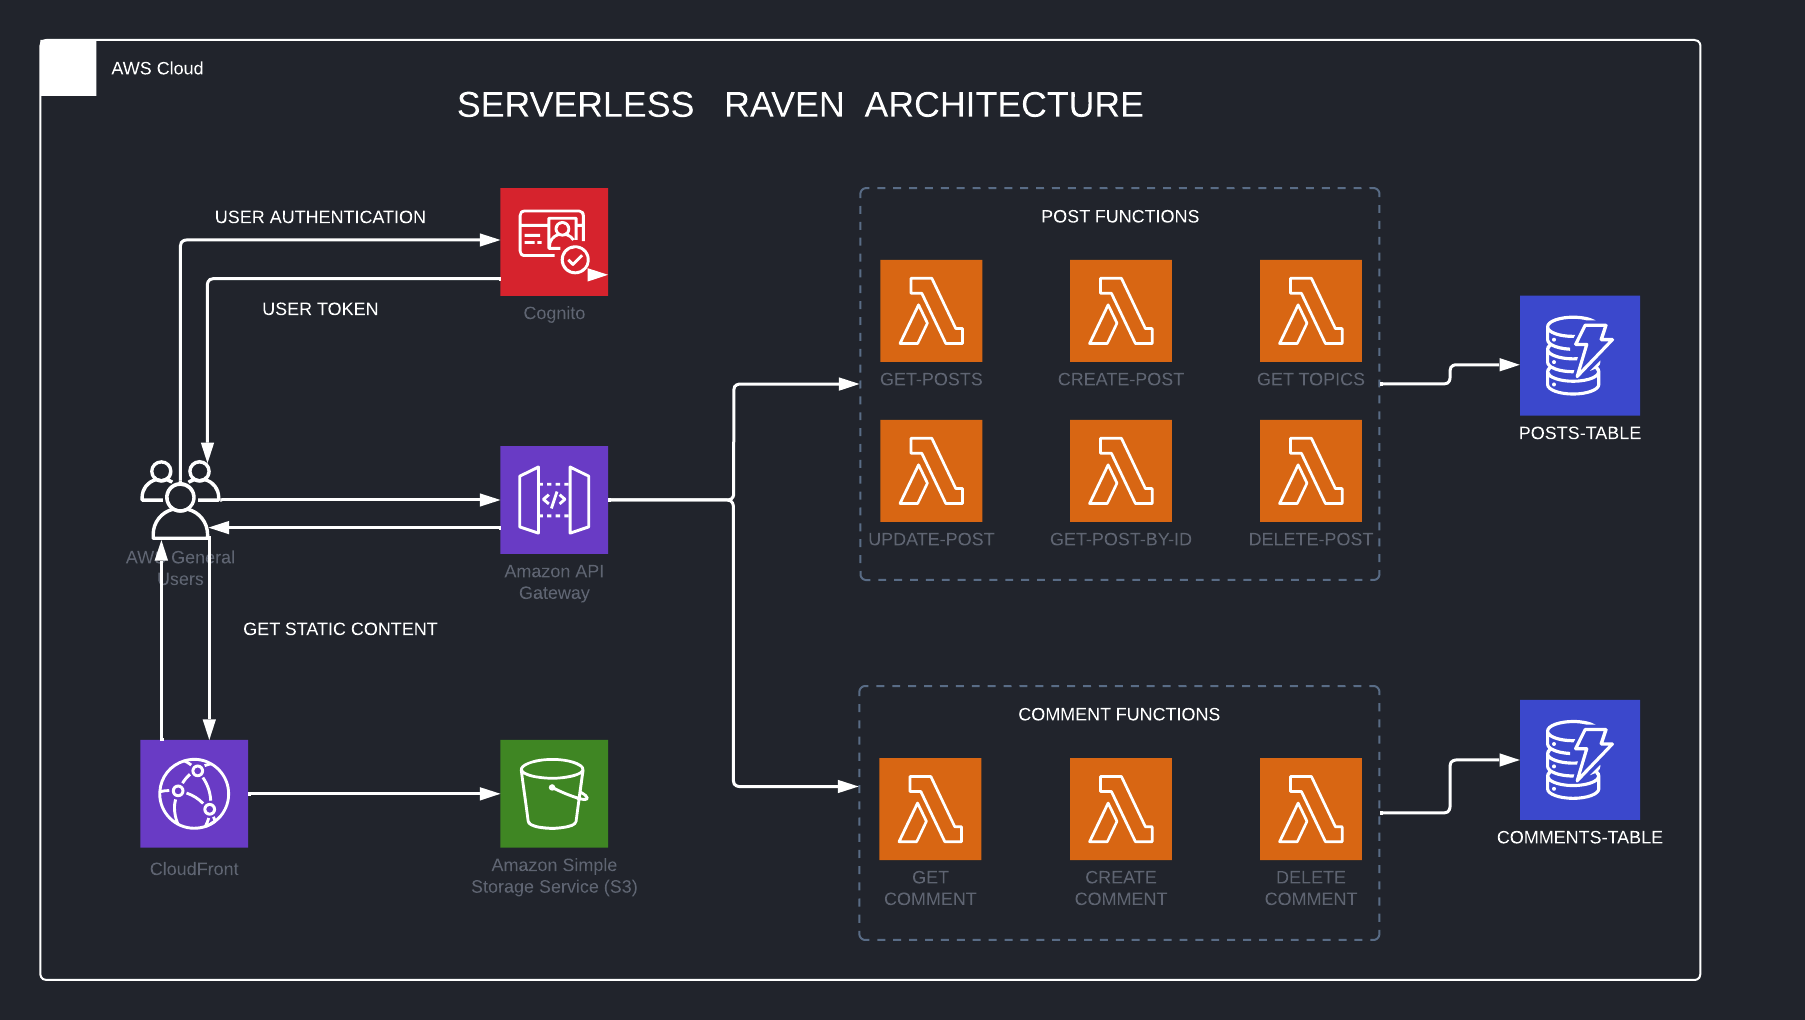
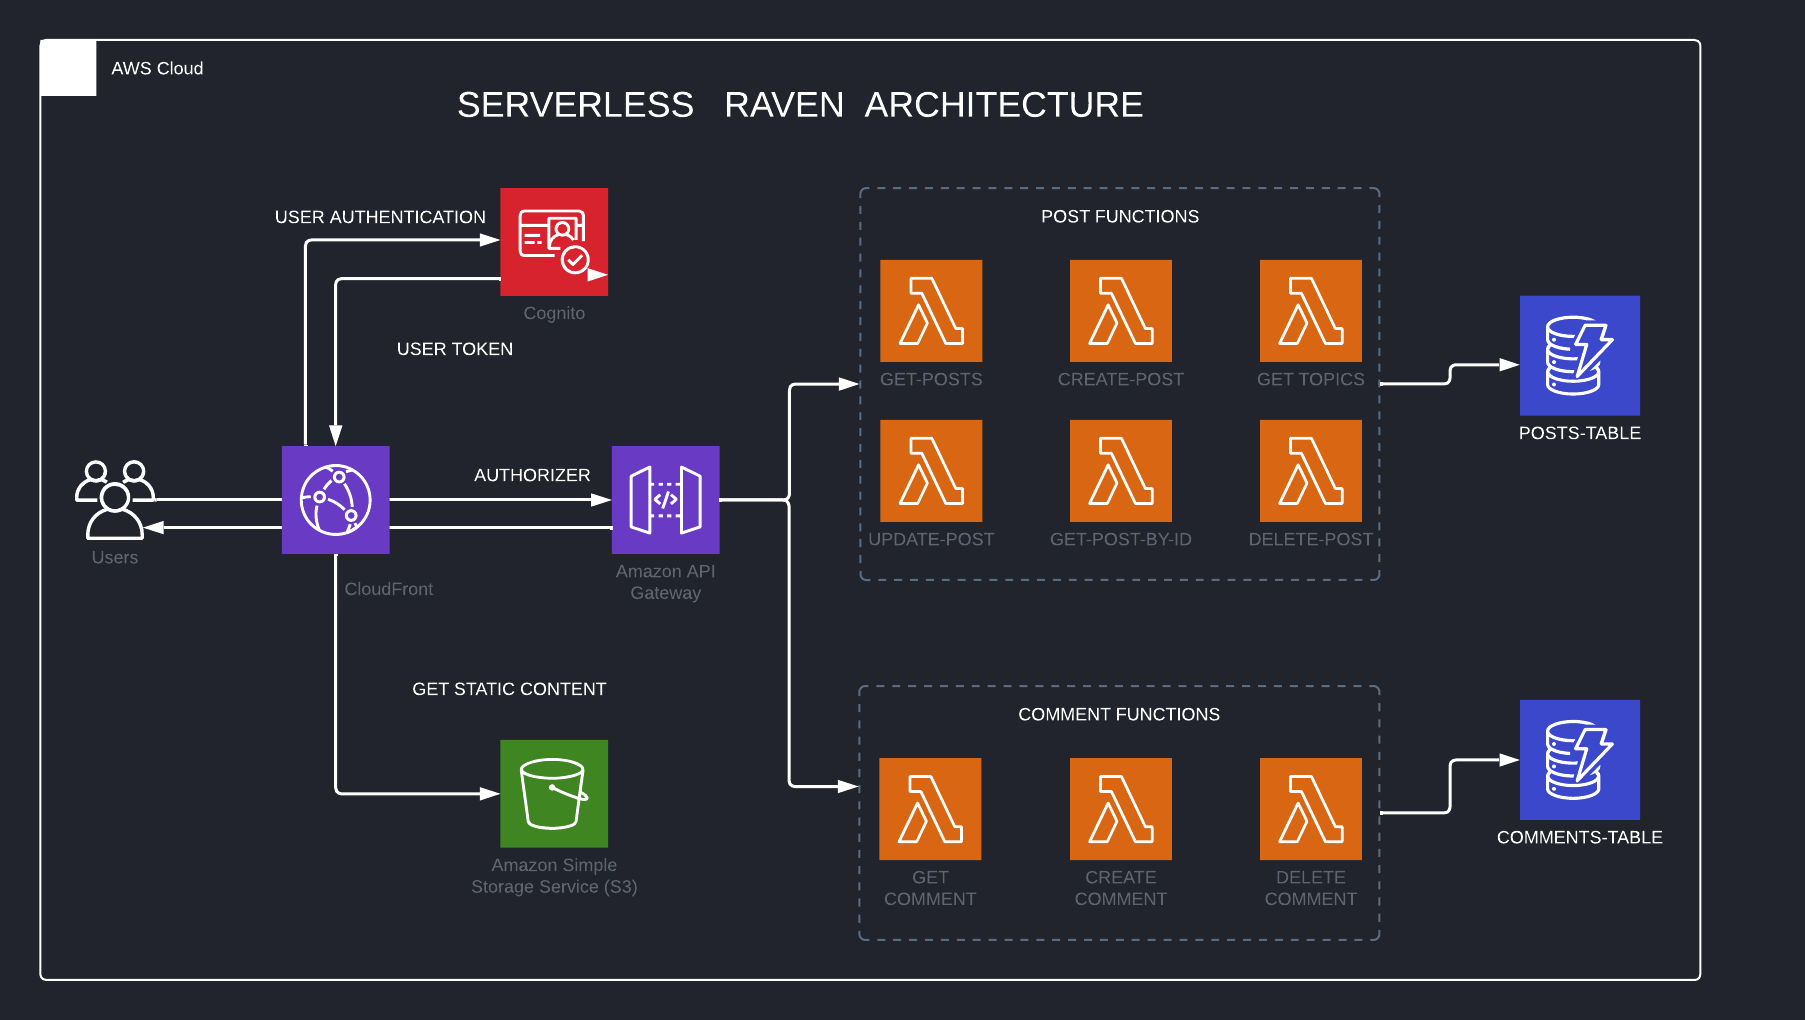
architecture

diff --git a/README.md b/README.md
@@ -11,7 +11,7 @@ Toyosi needs to build a highly reliable serverless platform that allows for the 
 3. Each user should be able to create, read and delete their comments on any post.
 4. Each serverless service should have its own page for discussions.
 
-# The-Serverless-Raven-Tools
+# The-Serverless-Raven-Tools and Services
 - API Gateway
 - Lambda Function
 - Amazon Dynamo DB
@@ -26,4 +26,5 @@ Toyosi needs to build a highly reliable serverless platform that allows for the 
 
 
 # The-Serverless-Raven-Architecture
+This architecture highights the AWS serverless services used,the communication between the services and the flow of data within the application.
 ![alt text](https://github.com/blacktechiegirl/The-Serverless-Raven-Case-Study/blob/main/assets/serverless-raven.png)
